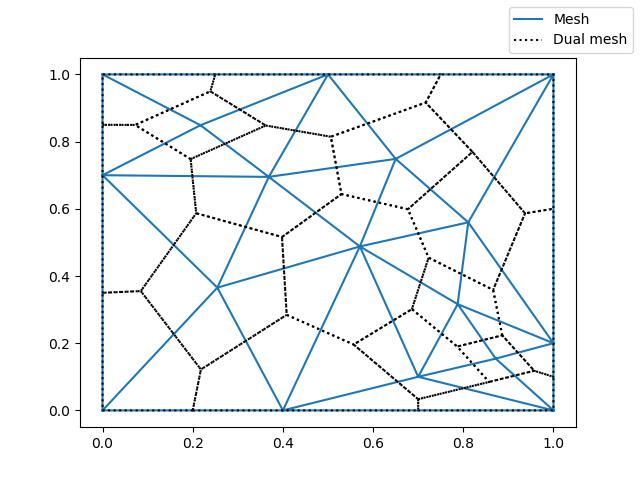
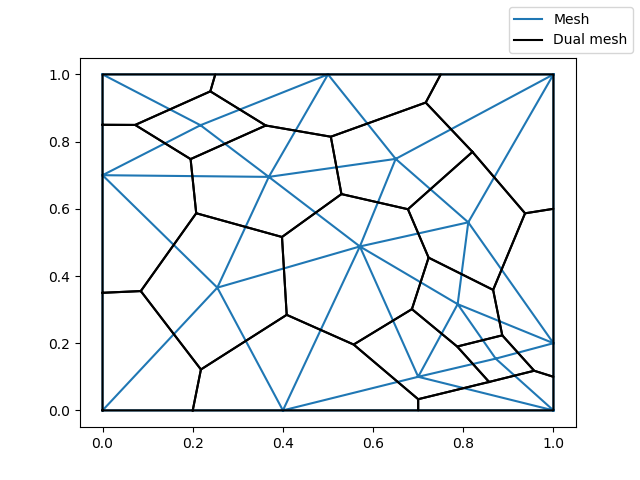
Minor change to the plot.

diff --git a/example.py b/example.py
@@ -26,7 +26,7 @@ def main():
         cell_points = dual_msh["points"][cell + [cell[0]]]
 
         # We plot the points of the current polygon
-        ax.plot(cell_points[:, 0], cell_points[:, 1], ":", color="black")
+        ax.plot(cell_points[:, 0], cell_points[:, 1], color="black")
 
     # We add a legend to the figure
     fig.legend([ax.lines[0], ax.lines[-1]], ["Mesh", "Dual mesh"])
